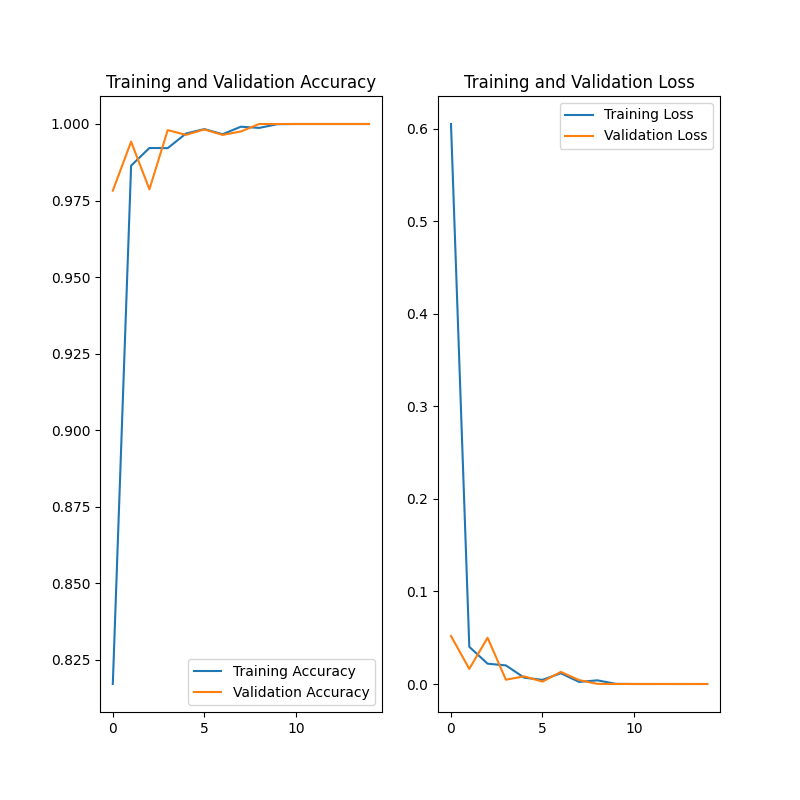
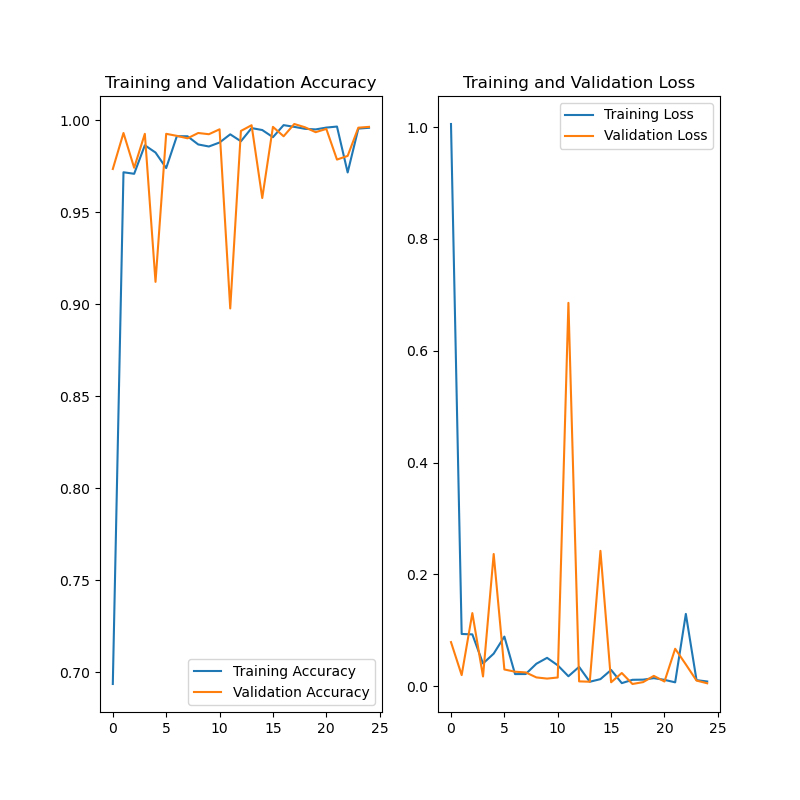
minor model changes and performance improvement

diff --git a/main.py b/main.py
@@ -5,7 +5,7 @@ import time
 
 import matplotlib.pyplot as plt
 # import time
-# import tensorflow as tf
+import tensorflow as tf
 import keyboard
 import numpy as np
 import PySpin
@@ -79,7 +79,7 @@ class WinnerMove:
         return 0, 0.045, True
 
     def CENTER(self):
-        qry = sql_query()
+        qry = SqlQuery()
         qry.lab_stop()
         return 0, 0, False
 
@@ -294,10 +294,11 @@ class Camera:
             # Close program
             print('Press enter to close the program..')
             bp = BackPropagation()
-            qry = sql_query()
+            qry = SqlQuery()
             # Retrieve and display images
             time1 = time.time()
             aux = 0
+            model = tf.keras.models.load_model("model.keras")
             while self.continue_recording:
                 aux = aux + 1
                 try:
@@ -330,12 +331,12 @@ class Camera:
                         C = np.dstack((A, B))
                         image = np.dstack((C, B))
                         data = im.fromarray(image)
-                        data = data.resize((375, 300))
+                        data = data.resize((500, 400))
                         imname = "img_" + str(aux) + ".png"
                         # imsave = data.save(imname)
                         # plt.imshow(data)
                         # plt.show()
-                        winner_class = bp.predict(data)
+                        winner_class = bp.predict(data, model)
                         switcher = WinnerMove()
                         case = getattr(switcher, winner_class, switcher.default)
                         X, Y, self.continue_recording = case()
@@ -354,6 +355,7 @@ class Camera:
                     return False
             plt.imshow(data)
             plt.show()
+            data.save('ERROR.png')
             time2 = time.time()
             print('Time = ' + str(time2 - time1))
             ttime = time2 - time1
@@ -404,7 +406,7 @@ class Camera:
     #     self.YselectCoor = maxVC[0][arsz]  # coordenada intermedia del segmento con mas intencidad en y
 
 
-class sql_query:
+class SqlQuery:
     def __init__(self):
         self.mydb = mysql.connector.connect(
             host="localhost",
@@ -421,6 +423,7 @@ class sql_query:
         val = (None, t_time)
         self.mycursor.execute(sql, val)
         self.mydb.commit()
+
     def map_sql(self, X, Y):
         print("--------------")
         print(X)
@@ -454,6 +457,7 @@ class sql_query:
         print("Upload to  data table...")
         print(x0)
         print(y0)
+
     def next_step(self):
 
         # def for py

diff --git a/IA.py b/IA.py
@@ -19,8 +19,8 @@ class BackPropagation:
         # Batch * 2 and image from 180 by 180 to 700 * 875
 
         self.batch_size = 128
-        self.img_height = 300
-        self.img_width = 375
+        self.img_height = 400
+        self.img_width = 500
         self.image_size = (self.img_height, self.img_width)
         self.data_dir = "C:/Users/grego/Downloads/GitHub/DATASET"
 
@@ -73,10 +73,6 @@ class BackPropagation:
             layers.MaxPooling2D(),
             layers.Conv2D(512, 7, padding='same', activation='relu'),
             layers.MaxPooling2D(),
-            layers.Conv2D(512, 7, padding='same', activation='relu'),
-            layers.MaxPooling2D(),
-            layers.Conv2D(512, 7, padding='same', activation='relu'),
-            layers.MaxPooling2D(),
             layers.Flatten(),
             layers.Dense(512, activation='relu'),
             layers.Dense(num_classes)
@@ -85,7 +81,7 @@ class BackPropagation:
                       loss=tf.keras.losses.SparseCategoricalCrossentropy(from_logits=True),
                       metrics=['accuracy'])
         model.summary()
-        epochs = 25
+        epochs = 55
         history = model.fit(
             self.train_ds,
             validation_data=self.val_ds,
@@ -113,12 +109,12 @@ class BackPropagation:
         model.save('model.h5')
         print("h5 done")
         input("Enter to continue")
-    def predict(self, img_data):
+    def predict(self, img_data, model):
         # img = keras.preprocessing.image.load_img(
         #     img_dir, target_size=self.image_size)
         img_array = tf.keras.utils.img_to_array(img_data)
         img_array = tf.expand_dims(img_array, 0)
-        model = tf.keras.models.load_model("model.keras")
+        # model = tf.keras.models.load_model("model.keras")
         predictions = model.predict(img_array)
         score = tf.nn.softmax(predictions[0])
 

diff --git a/extract.py b/extract.py
@@ -27,10 +27,10 @@ class SqlQueryE:
         df.to_csv('map.csv', index=False)
 
         self.mycursor.execute("SELECT * FROM times")
-        myresult = self.mycursor.fetchall()
-        aux = np.asarray(myresult[0])
-        for i in range(1, len(myresult)):
-            array_0 = np.asarray(myresult[i])
+        myresult_0 = self.mycursor.fetchall()
+        aux = np.asarray(myresult_0[0])
+        for i in range(1, len(myresult_0)):
+            array_0 = np.asarray(myresult_0[i])
             aux = np.vstack((aux, array_0))
         df = pd.DataFrame(aux, columns=['ID', 'times'])
         df.to_csv('times.csv', index=False)
